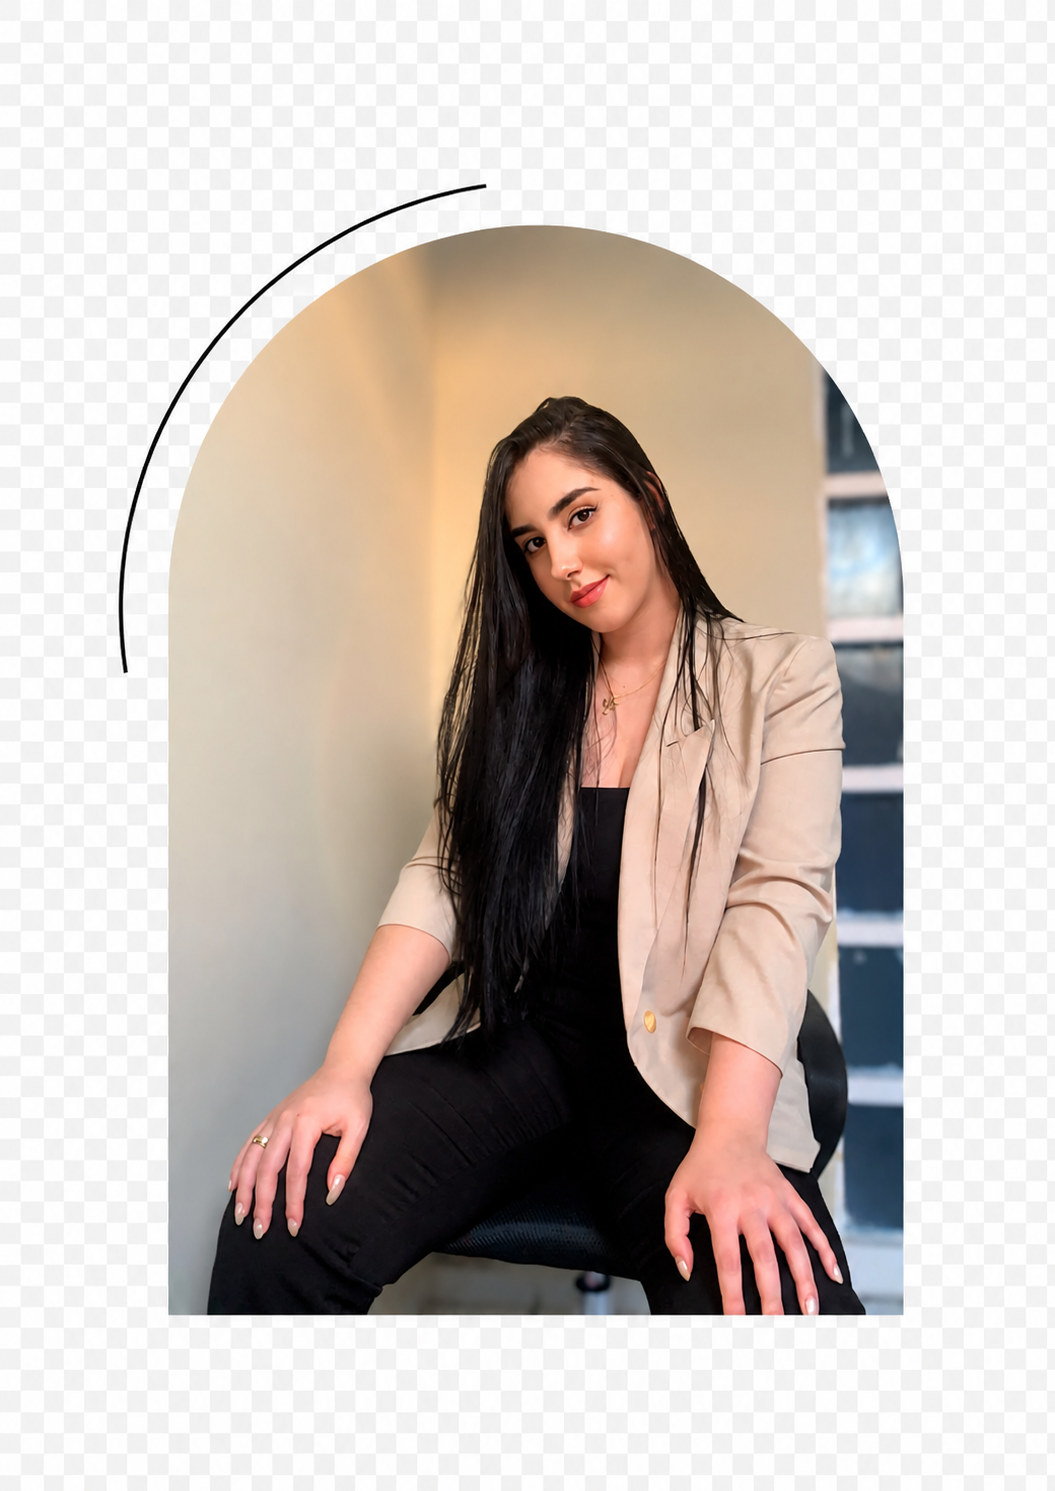
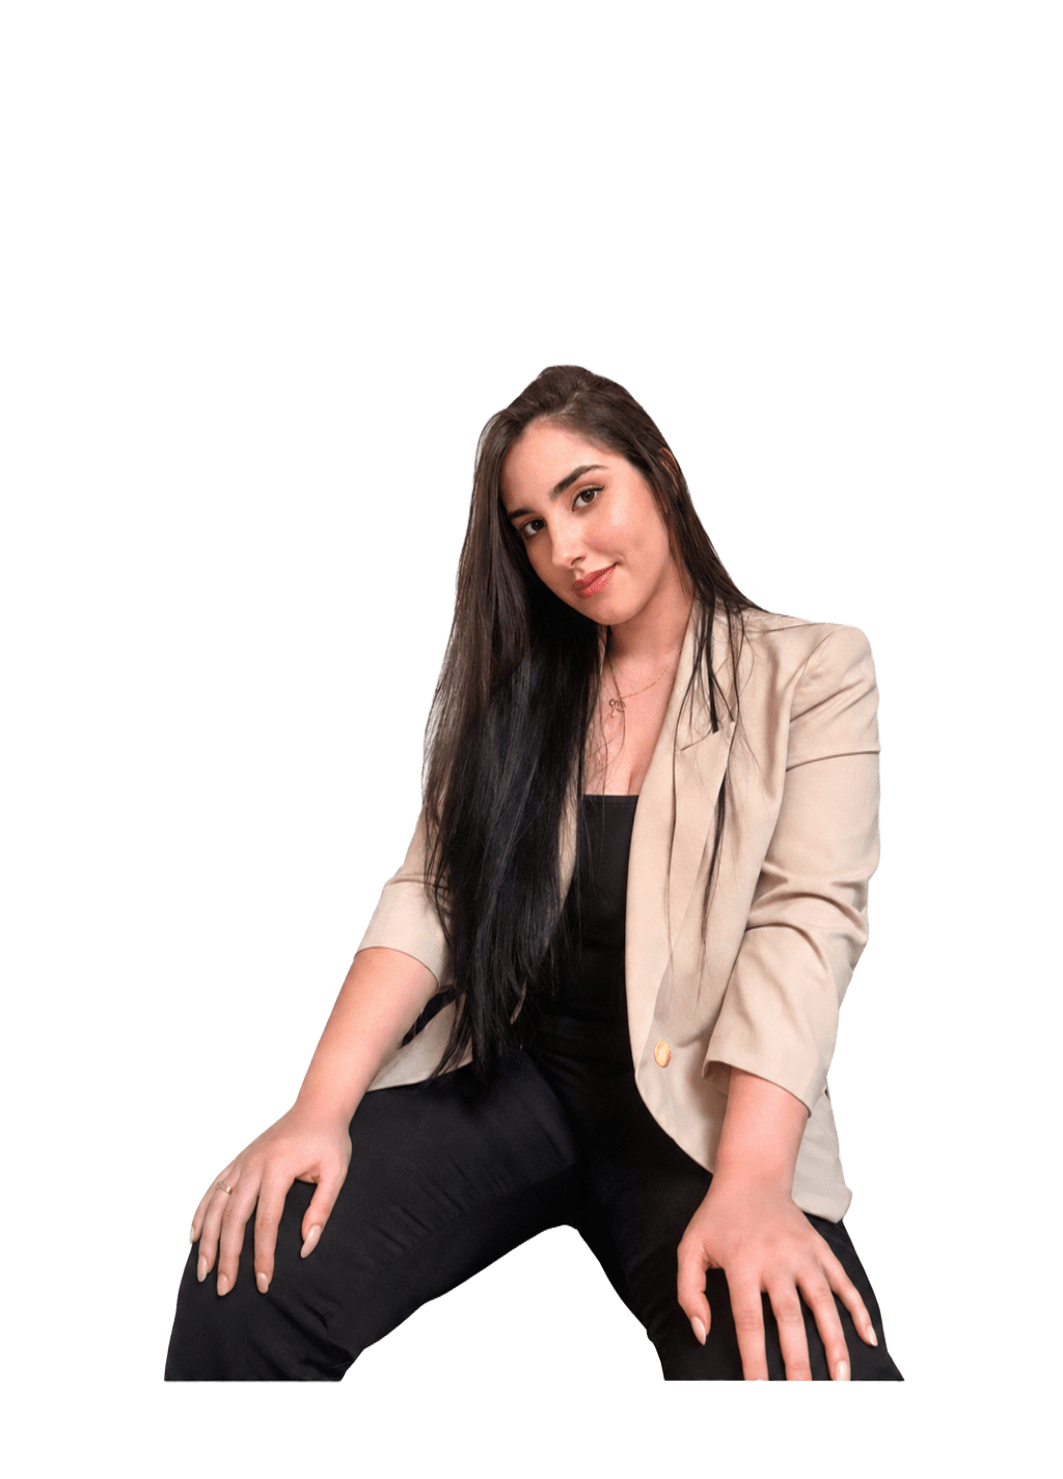
fix: use transparent portrait on home

diff --git a/app/page.tsx b/app/page.tsx
@@ -115,8 +115,8 @@ export default function Home() {
         <img
           src="/ana-livia-home-sobre-transparent.png"
           alt="Ana Lívia sentada em retrato profissional com blazer claro"
-          width="1024"
-          height="1536"
+          width="1063"
+          height="1479"
           loading="lazy"
           decoding="async"
         />
